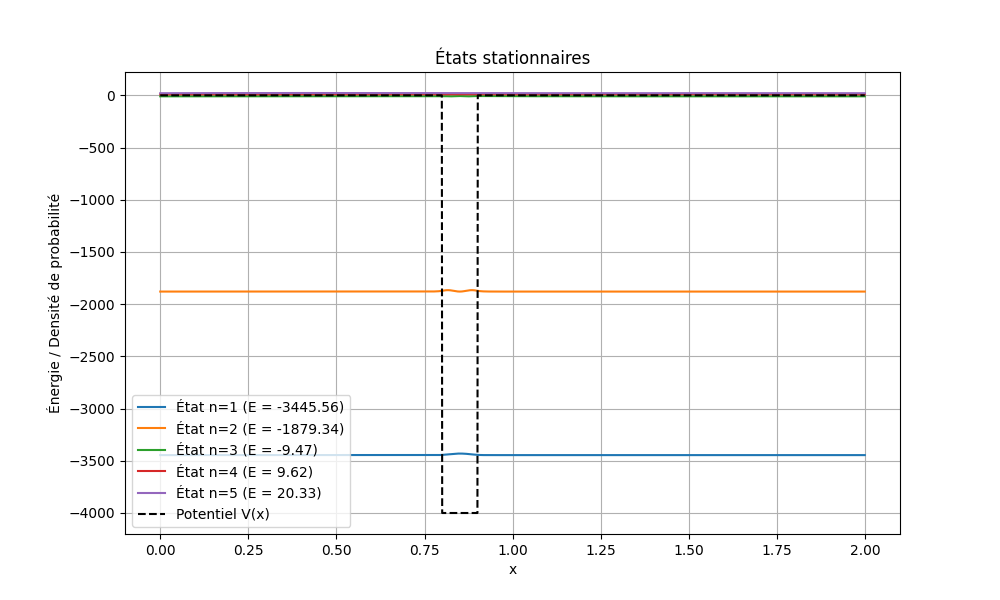
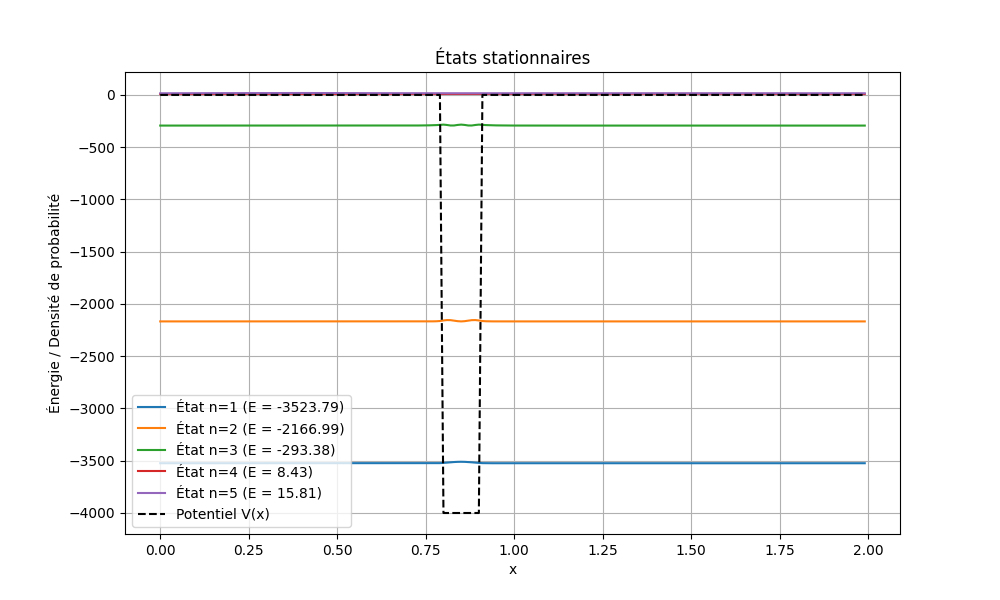
update

diff --git a/main.py b/main.py
@@ -17,35 +17,42 @@ if not os.path.exists(data_dir):
 
 
 
-def etats_stationnaires(dx, nx, n_states=5):
+def etats_stationnaires(dx, v0):
+
+    n_states = 5
 
     x = np.linspace(0, (nx - 1) * dx, nx)
+
+    V = np.zeros(nx)
+    V[(x >= 0.8) & (x<=0.9)] = v0
+
     diag = np.full(nx, -2.0)
     offdiag = np.full(nx - 1, 1.0)
-    T = (-1 / dx**2) * (np.diag(diag) + np.diag(offdiag, 1) + np.diag(offdiag, -1))
-    H = T + np.diag(V)
+    T = (-1 / dx ** 2) * (np.diag(diag) + np.diag(offdiag, 1) + np.diag(offdiag, -1))
+    H = T + np.diag(V) # hamiltonien
 
     energies, states = eigh(H, subset_by_index=(0, n_states - 1))
 
-    plt.figure(figsize=(10,6))
+
+    plt.figure(figsize=(10, 6))
     for i in range(n_states):
+
         psi = states[:, i]
-        psi = psi / np.sqrt(np.sum(psi**2) * dx)
-        plt.plot(x, psi**2 + energies[i], label=f"État {i} (E = {energies[i]:.2f})")
+        psi = psi / np.sqrt(np.sum(psi ** 2) * dx)
 
+        plt.plot(x, psi ** 2 + energies[i], label=f"État n={i+1} (E = {energies[i]:.2f})")
 
-    plt.xlim(0.75, 0.95)
-    plt.ylim(-4000, 100)
     plt.plot(x, V, 'k--', label='Potentiel V(x)')
     plt.title("États stationnaires")
     plt.xlabel("x")
     plt.ylabel("Énergie / Densité de probabilité")
-    plt.legend(loc='upper right')
+    plt.legend()
     plt.grid()
     filepath = os.path.join(data_dir, "etats_stationnaires.png")
     plt.savefig(filepath)
     print(f"Graphique des états stationnaires exporté dans '{filepath}'")
     plt.show()
+
 
 
 def init():
@@ -59,34 +66,31 @@ def animate(j):
 
 
 if input("Voulez-vous utiliser des valeurs personnalisées ? oui - non : ") == 'oui':
-    dt = float(input("Valeur de dt (ref 1E-7) : "))
-    dx = float(input("Valeur de dx (ref 0.001) : "))
-    nt = int(input("Valeur de nt (ref 90000) : "))
-    nd = int(nt / 1000) + 1
-    xc = float(input("Valeur de xc (ref 0.6) : "))
-    sigma = float(input("Valeur de sigma (ref 0.05) : "))
     v0 = float(input("Valeur de v0 (ref -4000) : "))
-    e = float(input("Valeur de e (ref 5) : "))
 else:
-    dt = 1E-7
-    dx = 0.001
-    nt = 90000
-    nd = int(nt / 1000) + 1
-    xc = 0.6
-    sigma = 0.05
     v0 = -4000
-    e = 5
 
-nx = int(1 / dx) * 2
+
+
+dt = 1E-7
+dx = 0.01
+nt = 90000
+xc = 0.6
+sigma = 0.05
+e = 5
+nd = int(nt / 1000) + 1
+
+
+nx = int(1/dx)*2
 n_frame = nd
-s = dt / (dx ** 2)
-A = 1 / (math.sqrt(sigma * math.sqrt(math.pi)))
-E = e * v0
-k = math.sqrt(2 * abs(E))
+s = dt/(dx**2)
+A = 1/(math.sqrt(sigma*math.sqrt(math.pi)))
+E = e*v0
+k = math.sqrt(2*abs(E))
 
 o = np.linspace(0, (nx - 1) * dx, nx)
 V = np.zeros(nx)
-V[(o >= 0.8) & (o <= 0.9)] = v0
+V[(o >= 0.8) & (o<=0.9)] = v0
 
 cpt = A * np.exp(1j * k * o - ((o - xc) ** 2) / (2 * (sigma ** 2)))
 densite = np.zeros((nt, nx))
@@ -96,7 +100,7 @@ re = np.real(cpt[:])
 b = np.zeros(nx)
 im = np.imag(cpt[:])
 
-
+'''
 for i in range(1, nt):
     if i % 2 != 0:
         b[1:-1] = im[1:-1]
@@ -128,7 +132,7 @@ ani.save(os.path.join(data_dir, "animation.gif"), fps=10)
 
 print(f"Animation exportée dans data")
 plt.show()
-
+'''
 
 if input("Voulez-vous afficher les états stationnaires ? oui - non : ") == 'oui':
-    etats_stationnaires(dx, nx)
+    etats_stationnaires(dx, v0)
